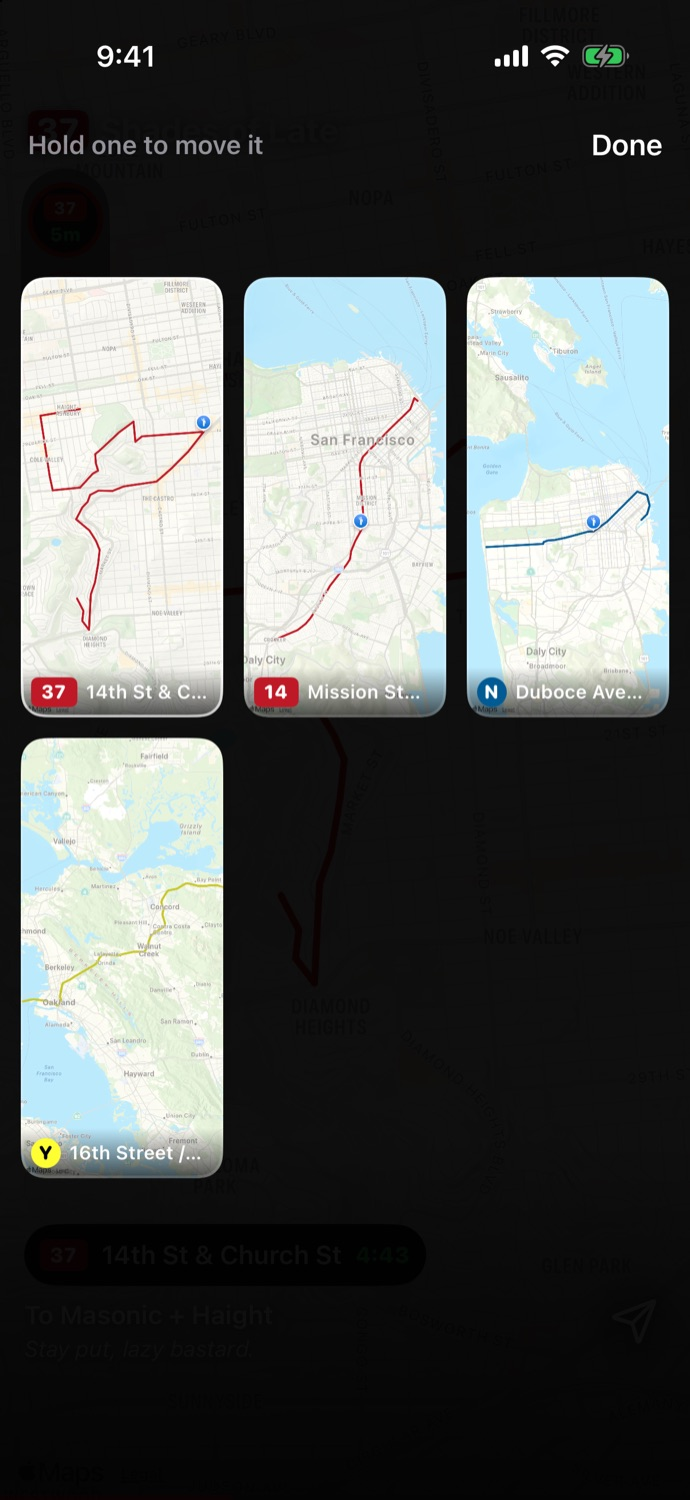
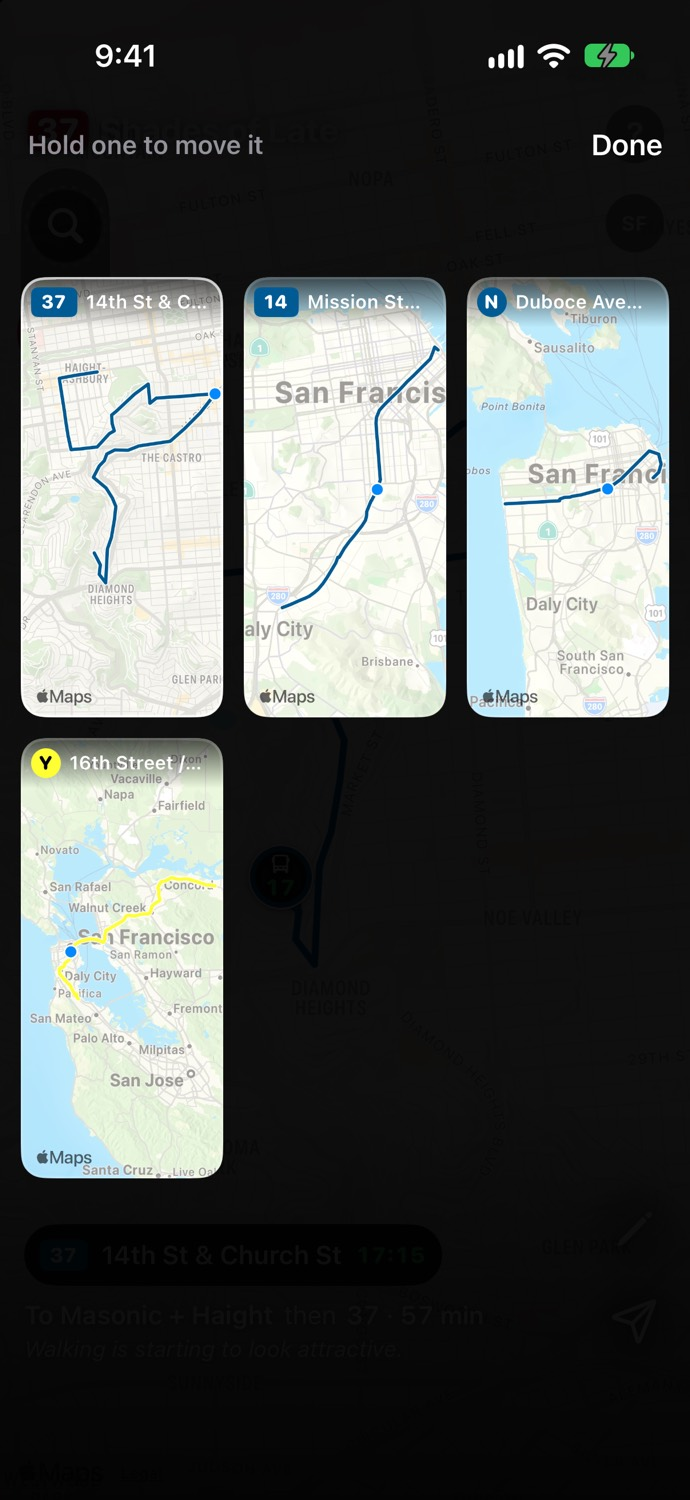
The website in the agencies' line colors, and today's screenshots
- The share card and page take each agency's published line colors after the
  app's own (the 37 in Muni's navy), for the badges, the route and the buses.
- New home, picker and grid screenshots; the copy says the city button, not
  sideways swipes, and no +.

Changed region(s): [[0.0304, 0.184, 0.9739, 0.7973], [0.7, 0.0307, 0.913, 0.0613], [0.1522, 0.0307, 0.213, 0.0613]]

diff --git a/site/src/worker.ts b/site/src/worker.ts
@@ -52,6 +52,13 @@ export default {
       .on('meta[property="og:image"]', set(image))
       .on('meta[name="twitter:image"]', set(image))
       .on("title", { element: (tag) => { tag.setInnerContent(`${title} · 37 Shades of Late`); } })
+      // The link's lines' colors, as the card has them, for the page's badges and map (pages/s.html).
+      .on("head", { element: (tag) => {
+        const city = url.searchParams.get("c") ?? "sf";
+        const ids = (url.searchParams.get("l") ?? "").split(",").filter(Boolean);
+        const colors = Object.fromEntries(ids.flatMap((id) => { const c = colorOf(id, city, ride.published); return c ? [[id, c]] : []; }));
+        tag.append(`<meta name="line-colors" content="${JSON.stringify(colors).replaceAll("&", "&amp;").replaceAll('"', "&quot;")}">`, { html: true });
+      } })
       .transform(page);
   },
 };
@@ -87,7 +94,7 @@ async function card(request: Request, url: URL, env: Env, ctx: ExecutionContext)
     round: ride.round,
     parts: ride.parts,
     lineBadges: ride.combined ? Object.fromEntries(upcoming.map((d) => d.line ?? "").filter(Boolean)
-      .map((id) => [id, lineBadge(id, url.searchParams.get("c") ?? "sf")])) : undefined,
+      .map((id) => [id, lineBadge(id, url.searchParams.get("c") ?? "sf", ride.published)])) : undefined,
     destination: ride.destination,
     stop: ride.stop,
     minutes,
@@ -95,6 +102,7 @@ async function card(request: Request, url: URL, env: Env, ctx: ExecutionContext)
     lines: ride.combined ? upcoming.map((d) => d.line ?? "") : undefined,
     quip: minutes.length ? quip(minutes[0], said(upcoming[0].line || ride.first, url.searchParams.get("c") ?? "sf")) : `Schrödinger's ${ride.line}: both coming and not coming.`,
     map,
+    color: ride.color?.[0],
   });
   const response = new Response(png, { headers: { "Content-Type": "image/png", "Cache-Control": "public, max-age=60" } });
   ctx.waitUntil(cache.put(request, response.clone()));
@@ -166,6 +174,9 @@ interface Ride {
   /** See `badgeParts`. */
   parts: BadgePart[];
   combined: boolean;
+  /** The colors of the city's lines (see `colorOf`), the first line's for its route and buses. */
+  published: Colors;
+  color?: [string, boolean];
   stop: string;
   destination: string;
   /** Where the stop is, and the first line's route (its shape, or its stops in order). */
@@ -240,7 +251,35 @@ const COLORS: Record<string, Record<string, [string, boolean]>> = {
              ...Object.fromEntries("ABCDEFGH".split("").map((l) => [`${l} Line`, ["#9C182F", false] as [string, boolean]])) },
 };
 
-function colorOf(id: string, city: string): [string, boolean] | undefined {
+/** A line's colors, as the app's (LineBadge.color): those picked by hand above, else those its agency
+ * publishes (Muni's buses navy, Seattle's Metro yellow; see `publishedColors`), else none: the app's red. */
+function colorOf(id: string, city: string, published?: Colors): [string, boolean] | undefined {
+  return chosenColor(id, city) ?? published?.[id];
+}
+
+type Colors = Record<string, [string, boolean]>;
+
+/** The colors each city's agencies publish for their lines (GTFS route colors), from the proxy's line
+ * map, as the app's (PublishedColors): none, nor white (a blank on the map), left out. */
+async function publishedColors(city: string): Promise<Colors> {
+  const response = await fetch(`${API}${city === "sf" ? "" : city + "/"}map?v=2&client=web`, { cf: { cacheTtl: 86400 } })
+    .catch(() => undefined);
+  if (!response?.ok) return {};
+  const data: { lines?: { id: string; color?: string; textColor?: string }[] } = await response.json();
+  const luminance = (hex: string) => {
+    const value = parseInt(hex.slice(1), 16);
+    return (0.299 * ((value >> 16) & 255) + 0.587 * ((value >> 8) & 255) + 0.114 * (value & 255)) / 255;
+  };
+  const colors: Colors = {};
+  for (const line of data.lines ?? []) {
+    const hex = line.color?.toUpperCase();
+    if (!hex || !/^#[0-9A-F]{6}$/.test(hex) || hex === "#FFFFFF") continue;
+    colors[line.id] = [hex, line.textColor ? luminance(line.textColor) < 0.5 : luminance(hex) > 0.6];
+  }
+  return colors;
+}
+
+function chosenColor(id: string, city: string): [string, boolean] | undefined {
   if (city === "chicago") return CHICAGO_L[id] ? [CHICAGO_L[id][1], id === "Yellow"] : undefined;
   if (city === "dc") return DC_METRO[id] ? [DC_METRO[id][1], id === "Yellow" || id === "Silver"] : undefined;
   if (city === "la") return LA_METRO[id];
@@ -259,14 +298,21 @@ function colorOf(id: string, city: string): [string, boolean] | undefined {
  * circle each, those sharing a color next to each other (the A, C and E in three blue circles), and
  * RapidRide in its dark red. Any others with them share
  * a red rectangle (the K, L and M in their circles, then a 24). */
-function badgeParts(ids: string[], city: string): BadgePart[] {
+function badgeParts(ids: string[], city: string, published?: Colors): BadgePart[] {
   const join = (group: string[]) => group.join(group.every((id) => id.length === 1) ? "" : "·");
-  if (!ids.some((id) => colorOf(id, city))) return [{ label: join(ids) }];
-  const groups: { color?: [string, boolean]; round: boolean; ids: string[] }[] = [];
+  if (!ids.some((id) => colorOf(id, city, published))) return [{ label: join(ids) }];
+  let groups: { color?: [string, boolean]; round: boolean; ids: string[] }[] = [];
   for (const id of ids) {
-    const color = colorOf(id, city), round = isRound([id], city);
+    const color = colorOf(id, city, published), round = isRound([id], city);
     const group = groups.find((g) => g.color?.[0] === color?.[0] && g.round === round);
     if (group) group.ids.push(id); else groups.push({ color, round, ids: [id] });
+  }
+  // The lines in rectangles (buses, mostly) share one, in the color most of them have (the 14 and 49 in
+  // Muni's navy, the 14R with them): split by color, they'd be too small to read.
+  const plain = groups.filter((g) => !g.round);
+  if (plain.length > 1) {
+    const main = plain.reduce((a, b) => (b.ids.length > a.ids.length ? b : a)).color;
+    groups = [...groups.filter((g) => g.round), { color: main, round: false, ids: ids.filter((id) => plain.some((g) => g.ids.includes(id))) }];
   }
   return groups.flatMap((g) => g.round
     ? g.ids.map((id) => ({ label: short(id, city), color: g.color?.[0], dark: g.color?.[1], round: true }))
@@ -275,8 +321,8 @@ function badgeParts(ids: string[], city: string): BadgePart[] {
 
 /** One line's badge, as on the line map: round and in its color where it has one, else a rectangle
  * in its color or red. */
-function lineBadge(id: string, city: string): BadgePart & { round: boolean } {
-  const color = colorOf(id, city), round = isRound([id], city);
+function lineBadge(id: string, city: string, published?: Colors): BadgePart & { round: boolean } {
+  const color = colorOf(id, city, published), round = isRound([id], city);
   return { label: round ? short(id, city) : id, color: color?.[0], dark: color?.[1], round };
 }
 
@@ -301,11 +347,13 @@ async function lookUp(params: URLSearchParams): Promise<Ride | undefined> {
   // As the app's badges: "37", "KLM", "5·21".
   const badge = ids.join(ids.every((id) => id.length === 1) ? "" : "·");
   if (!direction || !name || here?.lat === undefined || here.lon === undefined) return undefined;
+  const published = await publishedColors(city);
   const route = direction.shapes?.length
     ? direction.shapes.map((shape) => shape.map(([lat, lon]) => ({ lat, lon })))
     : [direction.stops.filter((s) => s.lat !== undefined && s.lon !== undefined).map((s) => ({ lat: s.lat!, lon: s.lon! }))];
   return { line: spoken, first: line, badge, round: isRound(ids, params.get("c") ?? "sf"),
-           parts: badgeParts(ids, params.get("c") ?? "sf"), combined: ids.length > 1, stop: name, destination: direction.destination,
+           parts: badgeParts(ids, city, published), combined: ids.length > 1, published, color: colorOf(line, city, published),
+           stop: name, destination: direction.destination,
            at: { lat: here.lat, lon: here.lon }, route };
 }
 

diff --git a/site/pages/s.html b/site/pages/s.html
@@ -47,7 +47,7 @@
   /* The live map: the route, the stop and the buses on their way, like the app's. */
   .map { height: 340px; margin-top: 16px; border-radius: 28px; overflow: hidden; border: 1px solid var(--line); background: #15172c; }
   .map[hidden] { display: none; }
-  .bus { width: 46px; height: 46px; border-radius: 50%; background: #1c1c1e; border: 3px solid var(--red); box-sizing: border-box;
+  .bus { width: 46px; height: 46px; border-radius: 50%; background: #1c1c1e; border: 3px solid var(--line-color, var(--red)); box-sizing: border-box;
          display: grid; place-items: center; color: #fff; font: 900 16px/1 var(--round); }
   .bus.live { color: var(--green); }
   .here { width: 22px; height: 22px; border-radius: 50%; background: #0a84ff; border: 3px solid #fff; box-sizing: border-box; }
@@ -122,15 +122,28 @@
   const roundLine = (id) => city === "nyc" ? id.length === 1 || id.startsWith("S ")
     : city === "sf" ? /^[EFJKLMNT]$/.test(id) || id in BART : city === "seattle" ? /^[12TNS] Line$/.test(id)
     : city === "boston" ? id in BOSTON : city === "chicago" ? id in CHICAGO : city === "dc" ? id in DC : city === "la" && id in LA;
-  const colorOf = (id) => city === "chicago" ? (CHICAGO[id] || [])[1] : city === "dc" ? (DC[id] || [])[1] : city === "la" ? LA[id] : city === "boston"
+  // The link's lines' colors from the server (src/worker.ts colorOf): those picked by hand, else those the
+  // agency publishes (Muni's buses navy). Without them, the hand-picked ones below.
+  const SERVED = (() => { try { return JSON.parse(document.querySelector('meta[name="line-colors"]')?.content || "{}"); } catch { return {}; } })();
+  const darkText = (color) => Object.values(SERVED).some(([hex, dark]) => hex === color && dark) || DARK_TEXT.includes(color);
+  const colorOf = (id) => SERVED[id] ? SERVED[id][0] : city === "chicago" ? (CHICAGO[id] || [])[1] : city === "dc" ? (DC[id] || [])[1] : city === "la" ? LA[id] : city === "boston"
     ? (BOSTON[id] || [])[1] || (id.startsWith("SL") ? "#7C878E" : /^(\d|CT)/.test(id) ? "#FFC72C" : undefined)
     : (COLORS[city] || {})[id] || (city === "nyc" && id.startsWith("S ") ? "#7C858C" : undefined);
-  const groups = [];
+  let groups = [];
   for (const id of ids.some(colorOf) ? ids : []) {
     const color = colorOf(id), round = roundLine(id);
     const group = groups.find((g) => g.color === color && g.round === round);
     if (group) group.ids.push(id); else groups.push({ color, round, ids: [id] });
   }
+  // The lines in rectangles (buses, mostly) share one, in the color most of them have, as the app's.
+  const plain = groups.filter((g) => !g.round);
+  if (plain.length > 1) {
+    const main = plain.reduce((a, b) => (b.ids.length > a.ids.length ? b : a)).color;
+    groups = [...groups.filter((g) => g.round), { color: main, round: false, ids: ids.filter((id) => plain.some((g) => g.ids.includes(id))) }];
+  }
+  // The first line's color for its route and buses on the map, as the app draws them.
+  const lineColor = colorOf(ids[0]) || "#bf1a26";
+  document.documentElement.style.setProperty("--line-color", lineColor);
   // A circle per line, those sharing a color next to each other (the A, C and E in three blue circles).
   const parts = groups.flatMap((g) => (g.round ? g.ids.map((id) => ({ ...g, ids: [id] })) : [g]));
   $("badges").replaceChildren(...(parts.length ? parts : [{ ids }]).map((group) => {
@@ -144,7 +157,7 @@
     span.textContent = labels.join(labels.every((id) => id.length === 1) ? "" : "·");
     if (group.color) {
       span.style.background = group.color;
-      if (DARK_TEXT.includes(group.color)) span.style.color = "#000";
+      if (darkText(group.color)) span.style.color = "#000";
     }
     return span;
   }));
@@ -192,7 +205,7 @@
       showsZoomControl: false,
       isRotationEnabled: false,
     });
-    const style = new mapkit.Style({ strokeColor: "#bf1a26", lineWidth: 5, lineCap: "round", lineJoin: "round" });
+    const style = new mapkit.Style({ strokeColor: lineColor, lineWidth: 5, lineCap: "round", lineJoin: "round" });
     for (const shapes of routes) for (const shape of shapes) {
       map.addOverlay(new mapkit.PolylineOverlay(shape.map(([lat, lon]) => new mapkit.Coordinate(lat, lon)), { style }));
     }

diff --git a/site/index.src.html b/site/index.src.html
@@ -534,16 +534,16 @@
     <div class="wrap">
       <div class="kicker">The app</div>
       <h2>Disappointment, beautifully arranged.</h2>
-      <p class="lede">Every stop you wait at gets the whole screen: a live map of where the bus actually is. Swipe up for the next one, sideways for the next city.</p>
+      <p class="lede">Every stop you wait at gets the whole screen: a live map of where the bus actually is. Swipe up for the next one; the city button under the ? for the next city.</p>
 
       <div class="phones">
         <figure class="phone-wrap" data-speed="0.06">
-          <div class="phone"><img src="{{IMG_HOME}}" alt="The 37 at 14th St &amp; Church St in San Francisco, full screen: its route on the map with the bus 7 minutes away, your favorites as circles down the side, and “Stay put, lazy bastard.”"></div>
+          <div class="phone"><img src="{{IMG_HOME}}" alt="The 37 at 14th St &amp; Church St in San Francisco, full screen: its route on the map with the bus 20 minutes away, your favorites as circles down the side, and “Walking is starting to look attractive.”"></div>
           <figcaption><b>Swipe through your stops.</b>Each one a full-screen map with the bus on it, your others down the side, and commentary nobody asked for.</figcaption>
         </figure>
         <figure class="phone-wrap" data-speed="-0.06">
-          <div class="phone"><img src="{{IMG_PICKER}}" alt="Adding a stop in San Francisco: a circle over Church &amp; Market listing the F, 22, J and 37 that stop around it"></div>
-          <figcaption><b>Tap + where you wait.</b>Slide the circle over your corner and it lists every line that stops there. Pick yours, then which way.</figcaption>
+          <div class="phone"><img src="{{IMG_PICKER}}" alt="Finding a stop in San Francisco: a circle over Church &amp; Market, with the J, F, L, M, K and 37 around it and the J and F listed with their minutes"></div>
+          <figcaption><b>Find where you wait.</b>Slide the circle over your corner and it lists every line that stops there. Pick yours, then which way.</figcaption>
         </figure>
         <figure class="phone-wrap" data-speed="0.06">
           <div class="phone"><img src="{{IMG_GRID}}" alt="All your San Francisco stops zoomed out side by side as small maps: the 37, 14, N and Y, ready to rearrange"></div>

diff --git a/site/src/card.ts b/site/src/card.ts
@@ -37,6 +37,8 @@ export interface Card {
   lines?: string[];
   quip: string;
   map?: CardMap;
+  /** The first line's color, for its route and buses on the map ("#RRGGBB"); the app's red without one. */
+  color?: string;
 }
 
 /** The map half: its picture (MAP_WIDTH × HEIGHT) and what goes on it, in its points. */
@@ -161,9 +163,11 @@ function withMap(card: Card, map: CardMap): string {
   const badge = badges(card, left, 56, 76, 52, width);
   const quip = wrap(`“${card.quip}”`, 30, width, 2);
   const at = (p: { x: number; y: number }) => `${(mapLeft + p.x).toFixed(1)},${p.y.toFixed(1)}`;
-  const route = map.route.filter((line) => line.length > 1)
-    .map((line) => `<polyline points="${line.map(at).join(" ")}" fill="none" stroke="${red}" stroke-width="7" stroke-linecap="round" stroke-linejoin="round"/>`).join("\n    ");
-  const buses = map.buses.map((bus) => `<circle cx="${mapLeft + bus.x}" cy="${bus.y}" r="27" fill="#1c1c1e" stroke="${red}" stroke-width="4"/>
+  // In the line's color, as the app draws its route and buses.
+  const line = card.color ?? red;
+  const route = map.route.filter((points) => points.length > 1)
+    .map((points) => `<polyline points="${points.map(at).join(" ")}" fill="none" stroke="${line}" stroke-width="7" stroke-linecap="round" stroke-linejoin="round"/>`).join("\n    ");
+  const buses = map.buses.map((bus) => `<circle cx="${mapLeft + bus.x}" cy="${bus.y}" r="27" fill="#1c1c1e" stroke="${line}" stroke-width="4"/>
     <text x="${mapLeft + bus.x}" y="${bus.y + (bus.label.length > 2 ? 7 : 9)}" font-size="${bus.label.length > 2 ? 18 : 25}" font-weight="900" fill="${bus.live ? "#4cd964" : "#fff"}" text-anchor="middle">${escape(bus.label)}</text>`).join("\n    ");
   return `<svg xmlns="http://www.w3.org/2000/svg" xmlns:xlink="http://www.w3.org/1999/xlink" width="${WIDTH}" height="${HEIGHT}" viewBox="0 0 ${WIDTH} ${HEIGHT}">
   ${background}
